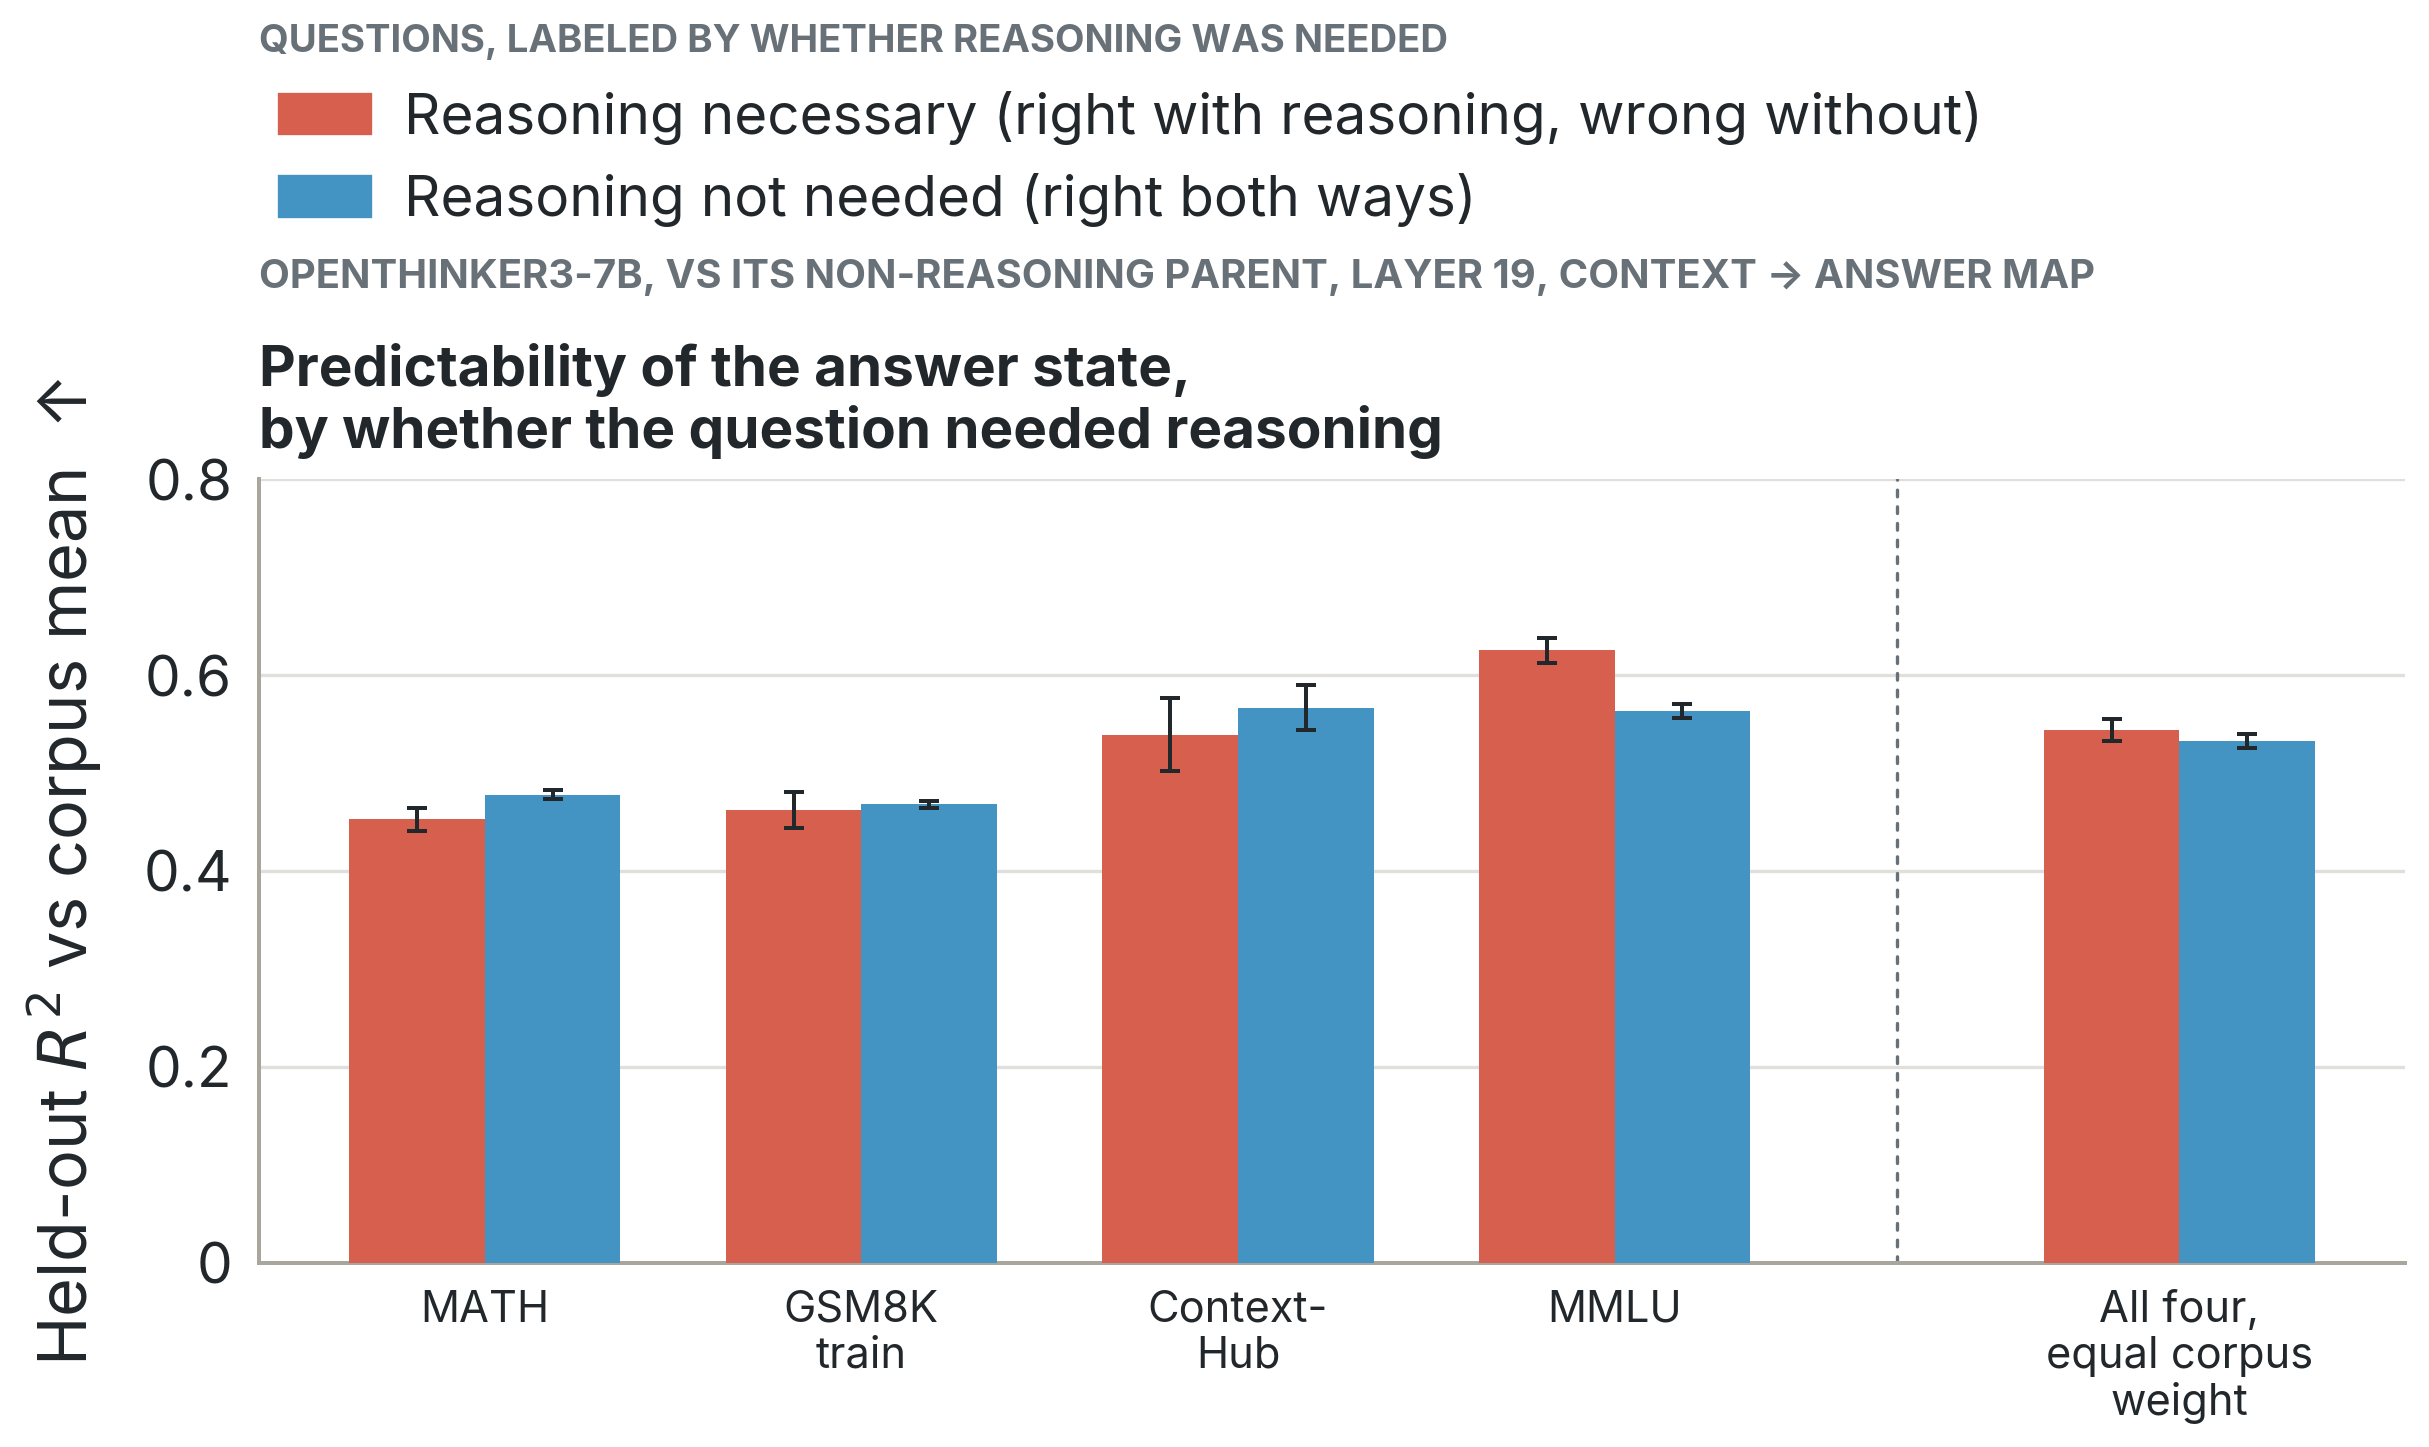
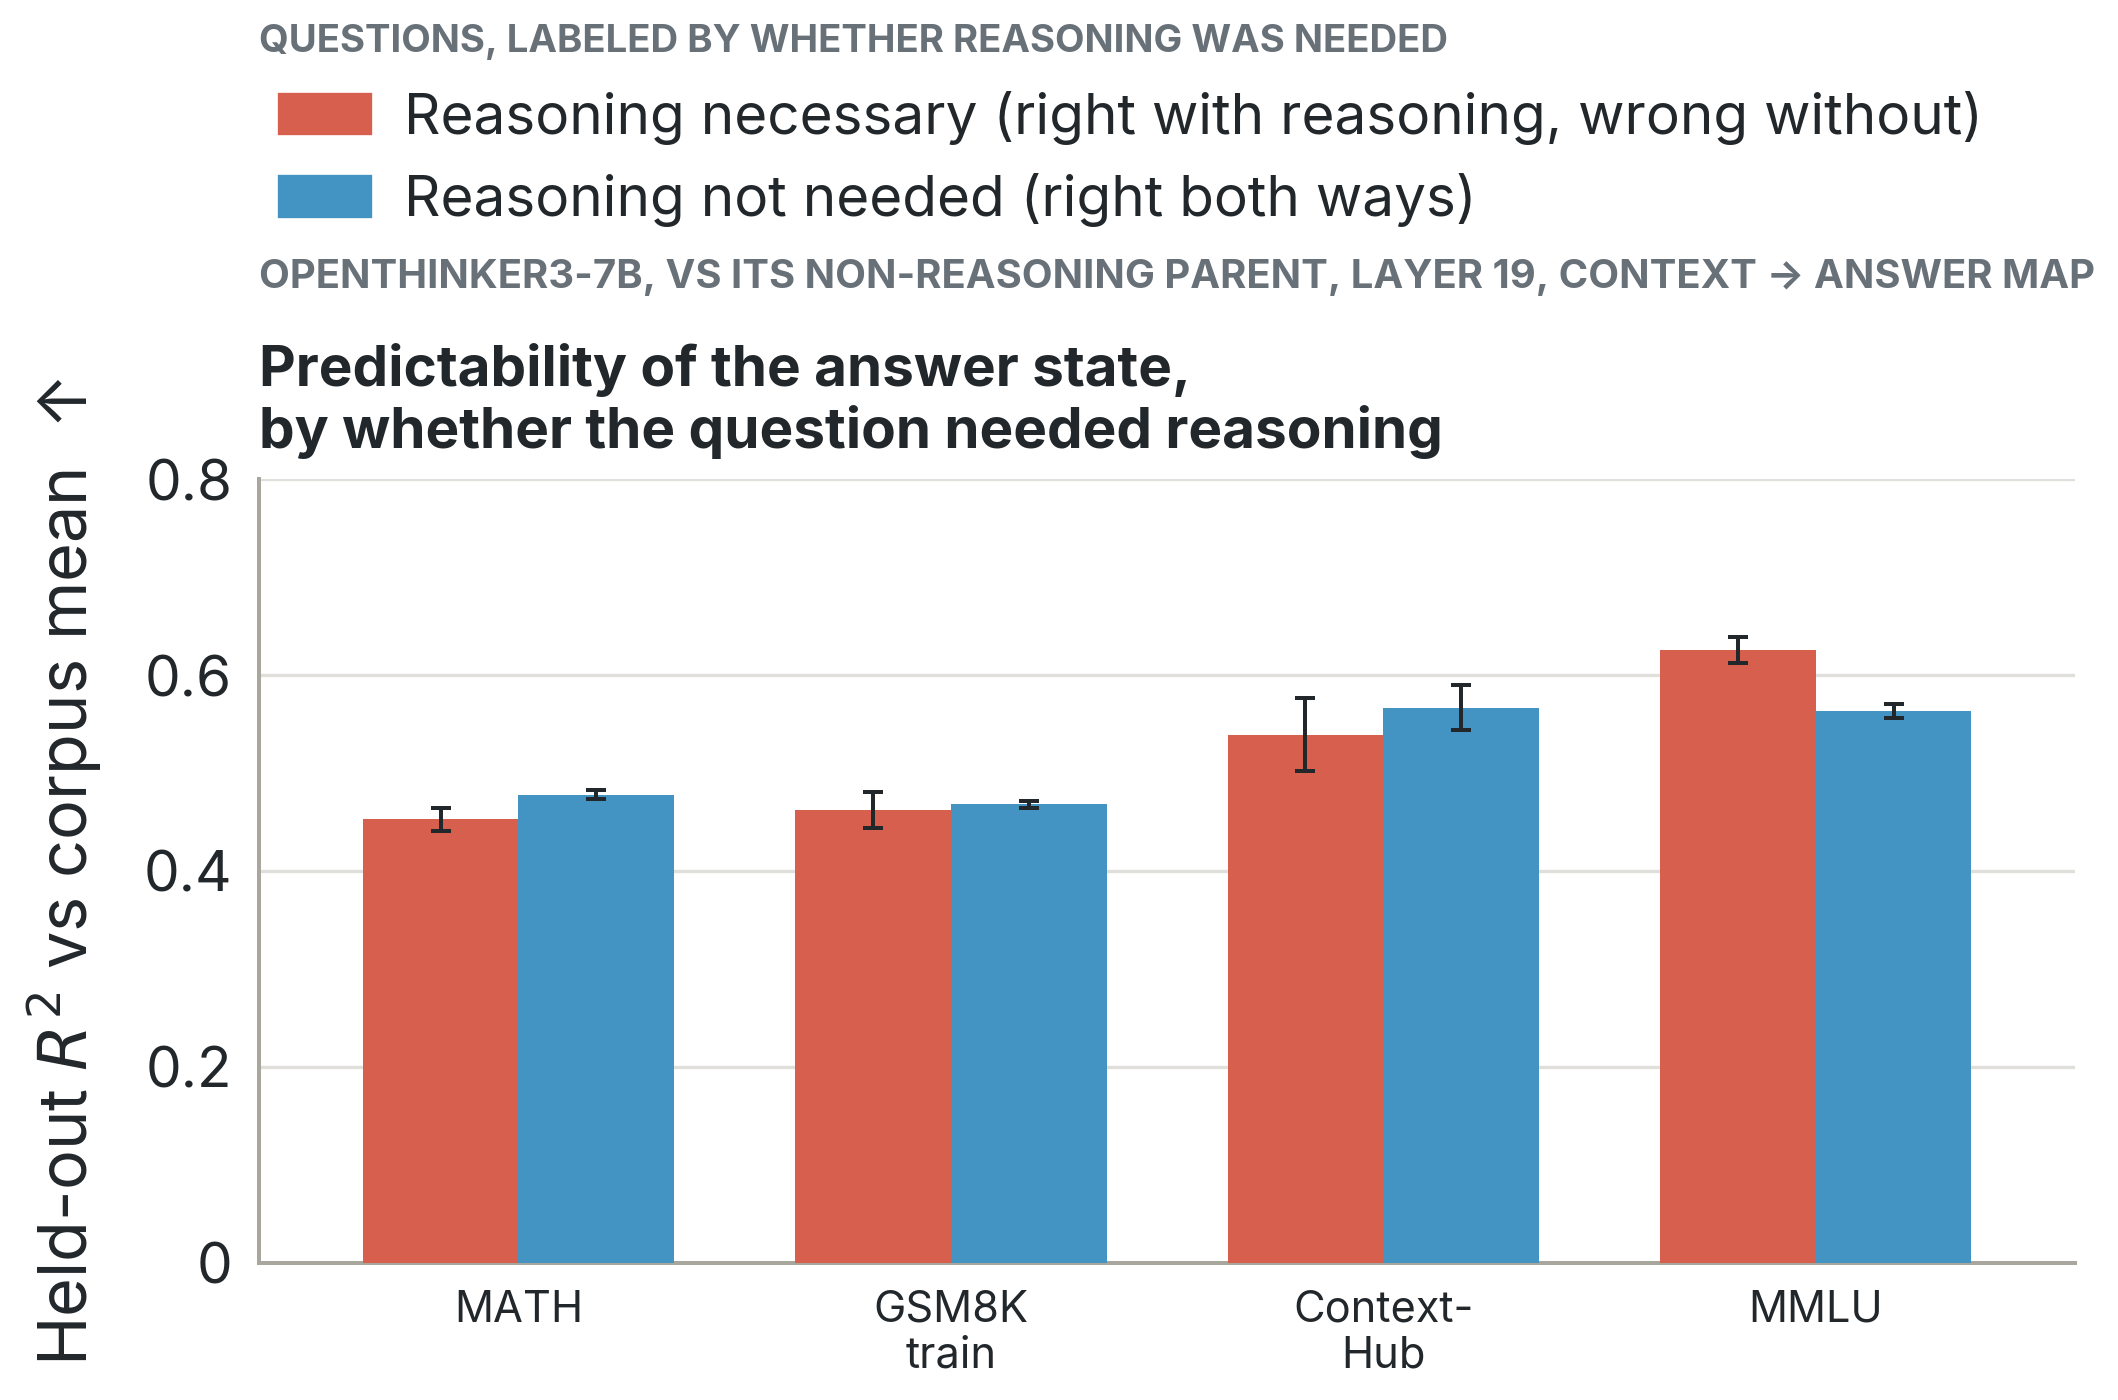
Necessity R^2 figure: per-corpus bars only (pooled pair behind --show-pooled)
Generated with [Claude Code](https://claude.ai/code)
via [Happy](https://happy.engineering)

Changed region(s): [[0.0, 0.0, 0.9972, 0.9829], [0.0, 0.2764, 0.0312, 0.3071]]

diff --git a/scripts/section45_cot_necessity_r2_figure.py b/scripts/section45_cot_necessity_r2_figure.py
@@ -292,11 +292,11 @@ def _kicker(ax: plt.Axes, title: str, kicker: str) -> None:
     ax.text(0.0, 1.235, kicker.upper(), transform=ax.transAxes, fontsize=12, fontweight=700, color=MUTED, va="bottom", ha="left")
 
 
-def make_figure(results: dict[str, Any], titles: dict[str, str], *, arms: tuple[str, ...] = ("1",), whole_corpus_line: bool = False, baseline: str = "corpus") -> plt.Figure:
+def make_figure(results: dict[str, Any], titles: dict[str, str], *, arms: tuple[str, ...] = ("1",), whole_corpus_line: bool = False, baseline: str = "corpus", show_pooled: bool = False) -> plt.Figure:
     key = "r2_corpus_mean" if baseline == "corpus" else "r2_own_mean"
     set_c2a_style()
     n = len(arms)
-    fig = plt.figure(figsize=(10.4 if n == 1 else 14.4, 6.4), constrained_layout=False)
+    fig = plt.figure(figsize=((10.4 if show_pooled else 8.8) if n == 1 else 14.4, 6.4), constrained_layout=False)
     grid = fig.add_gridspec(1, n, left=0.125 if n == 1 else 0.07, right=0.985, top=0.68, bottom=0.17, wspace=0.22)
     axes = [fig.add_subplot(grid[0, i]) for i in range(n)]
     for ax, arm, panel in zip(axes, arms, "ABCD"):
@@ -317,7 +317,7 @@ def make_figure(results: dict[str, Any], titles: dict[str, str], *, arms: tuple[
             if whole_corpus_line:
                 whole = cell["whole_corpus"]["r2_own_mean"]
                 ax.plot([i - 0.42, i + 0.42], [whole, whole], color=INK, lw=1.6, ls=(0, (3, 2)), zorder=5)
-        pooled = block.get("pooled_equal_corpus_weight", {}).get("context")
+        pooled = block.get("pooled_equal_corpus_weight", {}).get("context") if show_pooled else None
         ticks = list(range(len(CORPORA))); labels = [name for _c, name in CORPORA]
         if pooled:
             xp = len(CORPORA) + 0.5
@@ -363,6 +363,7 @@ def main(argv: list[str] | None = None) -> int:
     parser.add_argument("--title-b", default="Same on the thinking toggle")
     parser.add_argument("--both-panels", action="store_true", help="also plot the Qwen3-8B thinking toggle as panel B")
     parser.add_argument("--whole-corpus-line", action="store_true", help="draw the whole-corpus R^2 as a dashed line per corpus")
+    parser.add_argument("--show-pooled", action="store_true", help="add the equal-corpus-weight pooled pair")
     parser.add_argument("--baseline", choices=("corpus", "own"), default="corpus", help="R^2 baseline: each corpus's mean answer state (same predictor for both groups) or each group's own mean")
     parser.add_argument("--figure-only", action="store_true", help="re-render from an existing summary without touching the shards")
     parser.add_argument("--arms", type=int, nargs="*", default=None, help="restrict to these arms (smoke runs)")
@@ -400,7 +401,7 @@ def main(argv: list[str] | None = None) -> int:
     if args.no_figure:
         return 0
     font = set_c2a_style()
-    fig = make_figure(results, {"1": args.title_a, "3": args.title_b}, arms=("1", "3") if args.both_panels else ("1",), whole_corpus_line=args.whole_corpus_line, baseline=args.baseline)
+    fig = make_figure(results, {"1": args.title_a, "3": args.title_b}, arms=("1", "3") if args.both_panels else ("1",), whole_corpus_line=args.whole_corpus_line, baseline=args.baseline, show_pooled=args.show_pooled)
     stem = args.out_dir / args.stem
     outputs = save_c2a_figure(
         fig,
